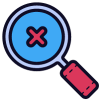
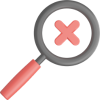
- Fix: added padding-right to create task button in NavBar - Modify styling of account page fonts - Replaced no-results.png with a new one - Modify styling of fonts of NewestAccounts component

diff --git a/frontend/src/styles/AccountPage.module.css b/frontend/src/styles/AccountPage.module.css
@@ -13,9 +13,12 @@
 }
 
 .UsernameHeader {
-    color: rgba(183, 255, 0, 0.945);
-    font-family: 'Rubik Doodle Shadow', system-ui;
-    font-size: 230%;
+    color: rgba(255, 255, 255, 0.87);
+    font-family: "Bebas Neue", sans-serif;
+    font-weight: 400;
+    font-style: normal;
+    font-size: 280%;
+    letter-spacing: 2px;
 }
 
 @media screen and (max-width: 600px) {
@@ -33,7 +36,7 @@
 
 .CustomHR {
     width: 35%;
-    border-color: rgba(102, 255, 0, 0.311);
+    border-color: rgba(0, 0, 0, 0.311);
     border-width: 3px;
     border-radius: 60%;
 }
@@ -42,7 +45,7 @@
     color: rgb(199, 199, 199);
     font-family: 'Rubik Burned', system-ui;
     font-size: 140%;
-    background-color: rgba(0, 0, 0, 0.466);
+    background-color: rgba(0, 69, 17, 0.466);
     border-radius: 18px;
     width: 40%;
     text-align: center;

diff --git a/frontend/public/index.html b/frontend/public/index.html
@@ -19,8 +19,8 @@
   <link rel="preconnect" href="https://fonts.googleapis.com">
   <link rel="preconnect" href="https://fonts.gstatic.com" crossorigin>
   <link
-    href="https://fonts.googleapis.com/css2?family=Noto+Serif:wght@300&family=Abril+Fatface&family=Agbalumo&family=Smooch+Sans&family=Rubik+Burned&display=swap&family=Rubik+Doodle+Shadow&display=swap&family=Kalnia:wght@300&display=swap"
-    rel=" stylesheet">
+    href="https://fonts.googleapis.com/css2?family=Bebas+Neue&family=Truculenta:opsz,wght@12..72,100..900&family=Noto+Serif:wght@300&family=Abril+Fatface&family=Quicksand:wght@300..700&family=Agbalumo&family=Smooch+Sans&family=Kalnia:wght@300&display=swap"
+    rel="stylesheet">
 
   <script src="https://kit.fontawesome.com/f3752806b9.js" crossorigin="anonymous"></script>
   <!--

diff --git a/frontend/src/styles/NavBar.module.css b/frontend/src/styles/NavBar.module.css
@@ -26,7 +26,7 @@
     left: 0;
     width: 100%;
     height: 3px;
-    background: linear-gradient(45deg, rgb(255, 0, 0), rgb(43, 255, 0), rgba(0, 0, 0, 0.804));
+    background: linear-gradient(45deg, rgb(255, 0, 0), rgb(21, 125, 0), rgba(0, 0, 0, 0.804));
     background-size: 200% 200%;
     animation: rainbow 10s linear infinite;
 }
@@ -83,7 +83,7 @@
     padding: 2px 2px;
     margin-left: 5px;
     margin-right: 5px;
-    padding-right: 10px;
+    padding-right: 7px;
 }
 
 .CreateTaskButton:hover {

diff --git a/frontend/src/styles/NewestAccounts.module.css b/frontend/src/styles/NewestAccounts.module.css
@@ -1,14 +1,16 @@
 .NewestAccounts {
   background-color: rgba(0, 0, 0, 0.795);
   padding: 8px;
-  color: white;
+  color: rgba(255, 255, 255, 0.719);
 }
 
 .NewestUsersP {
-  font-family: 'Font Awesome 6 Pro';
-  font-size: 1rem;
+  font-family: "Bebas Neue", sans-serif;
+  font-weight: 400;
+  font-size: 1.8rem;
+  letter-spacing: 2px;
   text-align: center;
-  text-shadow: 4px 4px 8px rgba(9, 255, 0, 0.68);
+  text-shadow: 4px 4px 8px rgba(130, 130, 130, 0.333);
 }
 
 /* Mobile view */

diff --git a/frontend/src/pages/accounts/NewestAccounts.js b/frontend/src/pages/accounts/NewestAccounts.js
@@ -34,7 +34,7 @@ const NewestAccounts = ({ mobile }) => {
     >
       {displayedAccounts.length ? (
         <>
-          <p className={styles.NewestUsersP}>Newest users</p>
+          <p className={styles.NewestUsersP}>Newest Users</p>
           <Row className={`${mobile ? styles.NewestAccountsMobile : ""}`}>
             {displayedAccounts.map((account) => (
               <Col key={account.id} xs={columnSize} className="mb-3">
